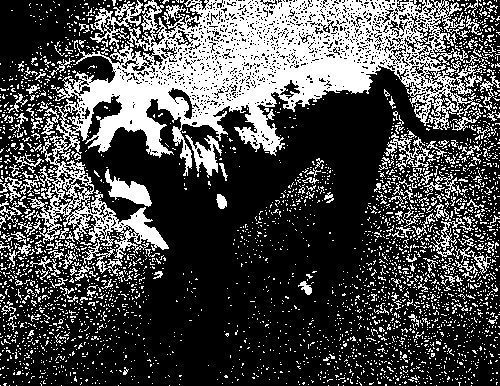
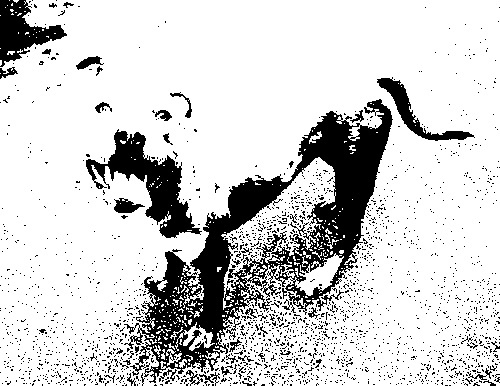
algortimos criados

diff --git a/algoritmos_criados.py b/algoritmos_criados.py
@@ -1,0 +1,52 @@
+import cv2
+import numpy as np
+
+def binarizacao(img, threshold):
+
+    tam = img.shape
+
+    lin = tam[0]
+    col = tam[1]
+
+    img_nova = []
+
+    for i in range(lin):
+        linha = []
+        for j in range(col):
+            if threshold >= img[i][j]:
+                linha.append(0)
+            else:
+                linha.append(255)
+        img_nova.append(linha)
+
+    img_nova = np.array(img_nova)
+
+    cv2.imwrite('img_nova.jpg', img_nova)
+
+    img_nova = cv2.imread('img_nova.jpg', 0)
+
+    return img_nova
+
+
+def threshold (img,threshold):
+    tam = img.shape
+
+    lin = tam[0]
+    col = tam[1]
+
+    img_nova = []
+
+    for i in range(lin):
+        linha = []
+        for j in range(col):
+            if threshold >= img[i][j]:
+                linha.append(img[i][j])
+            else:
+                linha.append(255)
+        img_nova.append(linha)
+
+    img_nova = np.array(img_nova)
+
+    cv2.imwrite('img_nova.jpg', img_nova)
+
+    img_nova = cv2.imread('img_nova.jpg', 0)

diff --git a/algoritmo_binarizacao.py b/algoritmo_binarizacao.py
@@ -3,7 +3,7 @@ import numpy as np
 from matplotlib import pyplot as plt
 #from skimage.filters import theshold_mininum
 
-def binarizazao(img ,threshold):
+def binarizacao(img ,threshold):
 
     tam = img.shape
 
@@ -36,7 +36,7 @@ img = cv2.imread('training_set/dogs/dog.14.jpg',0)
 
 threshold = int(input('Número do threshold: '))
 
-img_nova = binarizazao(img,threshold)
+img_nova = binarizacao(img,threshold)
 
 plt.hist(img.ravel(),bins=256)
 
@@ -61,27 +61,3 @@ plt.show()
 k = cv2.waitKey(0)
 
 
-## Em forma de função
-## Passar a imagem ao chama-la
-""""
-tam = img.shape
-
-lin = tam[0]
-col = tam[1]
-# LINHA E COLUNAS
-
-
-
-img_nova=[]
-
-for i in range(lin):
-    linha=[]
-    for j in range(col):
-        if threshold >= img[i][j]:
-            linha.append(0)
-        else:
-            linha.append(255)
-    img_nova.append(linha)
-
-img_nova = np.array(img_nova)
-"""
